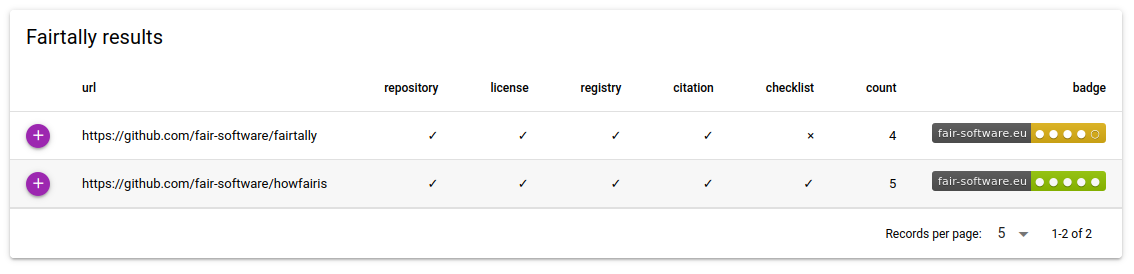
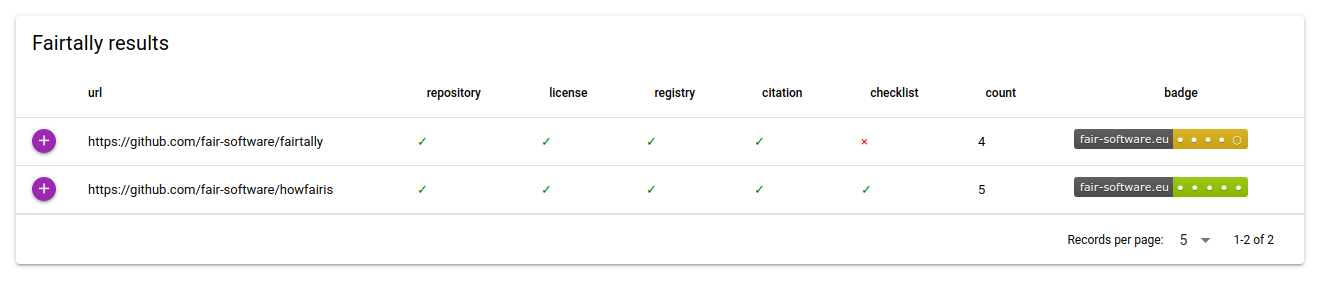
Refresh example report

diff --git a/docs/_static/fairtally_example.html b/docs/_static/fairtally_example.html
@@ -29,30 +29,46 @@
             </q-th>
           </q-tr>
         </template>
-  
+
         <template v-slot:body="props">
           <q-tr :props="props">
             <q-td auto-width>
               <q-btn size="sm" color="accent" round dense @click="props.expand = !props.expand" :icon="props.expand ? 'remove' : 'add'"></q-btn>
             </q-td>
-            <q-td
-              v-for="col in props.cols"
-              :key="col.name"
-              :props="props"
-            >
-            <img v-if="col.name === 'badge'" :src="col.value"/>
-            <span v-else>{{ col.value }}</span>
+            <q-td>
+              <span>{{ props.row.url }}</span>
+            </q-td>
+            <q-td>
+              <compliance :status="props.row.repository" />
+            </q-td>
+            <q-td>
+              <compliance :status="props.row.license" />
+            </q-td>
+            <q-td>
+              <compliance :status="props.row.registry" />
+            </q-td>
+            <q-td>
+              <compliance :status="props.row.citation" />
+            </q-td>
+            <q-td>
+              <compliance :status="props.row.checklist" />
+            </q-td>
+            <q-td>
+              <span>{{ props.row.count }}</span>
+            </q-td>
+            <q-td>
+              <img :src="props.row.badge" alt="FAIR software badge"/>
             </q-td>
           </q-tr>
           <q-tr v-show="props.expand" :props="props">
             <q-td colspan="100%">
               <div class="text-left">
                 <div>
-                  <span>Standard output:<span>
+                  <span>Standard output:</span>
                   <pre>{{ props.row.stdout }}</pre>
                 </div>
                 <div>
-                  <span>Standard error:<span>
+                  <span>Standard error:</span>
                   <pre>{{ props.row.stderr }}</pre>
                 </div>
               </div>
@@ -70,10 +86,6 @@
 
   <script>
 
-    function complianceFormatter(compliance) {
-      return compliance ? '✓' : '×';
-    }
-
     const columns = [
       {
         name: 'url',
@@ -89,56 +101,70 @@
         label: 'repository',
         field: 'repository',
         sortable: true,
-        format: complianceFormatter,
-
+        align: 'center'
       }, {
         name: 'license',
         required: true,
         label: 'license',
         field: 'license',
         sortable: true,
-        format: complianceFormatter,
+        align: 'center'
       }, {
         name: 'registry',
         required: true,
         label: 'registry',
         field: 'registry',
         sortable: true,
-        format: complianceFormatter,
+        align: 'center'
       }, {
         name: 'citation',
         required: true,
         label: 'citation',
         field: 'citation',
         sortable: true,
-        format: complianceFormatter,
+        align: 'center'
       }, {
         name: 'checklist',
         required: true,
         label: 'checklist',
         field: 'checklist',
         sortable: true,
-        format: complianceFormatter,
+        align: 'center'
       }, {
         name: 'count',
         required: true,
         label: 'count',
         field: 'count',
-        sortable: true
+        sortable: true,
+        align: 'center'
       }, {
         name: 'badge',
         required: true,
         label: 'badge',
         field: 'badge',
+        align: 'center'
       },
     ];
-    const rows = [{"url": "https://github.com/fair-software/fairtally", "badge": "https://img.shields.io/badge/fair--software.eu-%E2%97%8F%20%20%E2%97%8F%20%20%E2%97%8F%20%20%E2%97%8F%20%20%E2%97%8B-yellow", "repository": true, "license": true, "registry": true, "citation": true, "checklist": false, "count": 4, "stdout": "", "stderr": "/home/erikt/software/howfairis/howfairis/workarounds/remove_comments_rst.py:5: UserWarning: Unable to ignore comments in RestructuredText format of README.rst, checks will also see comments\n  warnings.warn(\"Unable to ignore comments in RestructuredText format of {0}, checks will also see comments\".format(fname))\n"}, {"url": "https://github.com/fair-software/howfairis", "badge": "https://img.shields.io/badge/fair--software.eu-%E2%97%8F%20%20%E2%97%8F%20%20%E2%97%8F%20%20%E2%97%8F%20%20%E2%97%8F-green", "repository": true, "license": true, "registry": true, "citation": true, "checklist": true, "count": 5, "stdout": "", "stderr": ""}];
-    
+    const rows = [{"url": "https://github.com/fair-software/fairtally", "badge": "https://img.shields.io/badge/fair--software.eu-%E2%97%8F%20%20%E2%97%8F%20%20%E2%97%8F%20%20%E2%97%8F%20%20%E2%97%8B-yellow", "repository": true, "license": true, "registry": true, "citation": true, "checklist": false, "count": 4, "stdout": "", "stderr": "/home/verhoes/git/fair-software/fairtally/env/lib/python3.8/site-packages/howfairis/workarounds/remove_comments_rst.py:5: UserWarning: Unable to ignore comments in RestructuredText format of README.rst, checks will also see comments\n  warnings.warn(\"Unable to ignore comments in RestructuredText format of {0}, checks will also see comments\".format(fname))\n"}, {"url": "https://github.com/fair-software/howfairis", "badge": "https://img.shields.io/badge/fair--software.eu-%E2%97%8F%20%20%E2%97%8F%20%20%E2%97%8F%20%20%E2%97%8F%20%20%E2%97%8F-green", "repository": true, "license": true, "registry": true, "citation": true, "checklist": true, "count": 5, "stdout": "", "stderr": ""}];
+
     const app = Vue.createApp({
       setup() {
         return {
           columns,
           rows
+        }
+      }
+    })
+
+    app.component('compliance', {
+      props: ['status'],
+      template: `<span :style="'color:' + symbolColor">{{ symbol }}</span>`,
+      computed: {
+        symbol() {
+          return this.status ? '✓' : '×'
+        },
+        symbolColor() {
+          return this.status ? 'green' : 'red'
         }
       }
     })
